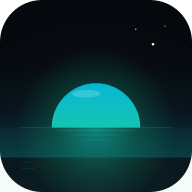
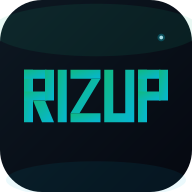
v7.5: タグライン刷新 + RIZUP ワードマークアイコン + 会社ロゴ + マイルストーン重複修正
- タグライン：「書くたびに村が育つ」(v7.0で撤去した村コンセプトの名残) を全箇所削除し「朝と夜、1分で未来が変わる。」に統一（layout.tsx の title/description/OG/Twitter, manifest.json description+shortcut）
- PWA アイコン：logo-r.svg を DAWN(夜明け) から Header と一致するミント→シアングラデ "RIZUP" ワードマークに全面書換。フォント非依存のジオメトリックパスで構築。icons/ 配下 15 サイズ + maskable + apple-touch + favicon 再生成
- 会社ロゴ：logo-company.svg 新規（上昇アーク + RIZUP + タグライン）。dashboard.html のヘッダー h1 上部に挿入
- SW キャッシュ：rizup-v4.3 → rizup-v7.5 にバンプ（iOS の強キャッシュ対策）
- マイルストーン修正：3日/7日/14日/30日モーダルの重複発火を根絶。localStorage に rizup_milestone_highest を持たせ、到達済以上の段階は二度と表示しない（旧 rizup_milestone_{n} キーから自動移行）
- 収益モデル方針確定：Pro ¥480/月・自前ハウス広告・オフ会は50人後オンライン先行・GCal iframe埋め込み・DB同期 Phase2（CLAUDE.md）

diff --git a/app/rizup-app/src/app/layout.tsx b/app/rizup-app/src/app/layout.tsx
@@ -4,8 +4,8 @@ import ToastContainer from "@/components/Toast";
 import ErrorBoundary from "@/components/ErrorBoundary";
 
 export const metadata: Metadata = {
-  title: "Rizup — 書くたびに村が育つ。",
-  description: "朝のひとこと、夜のふりかえり、毎日のこと。書くたびにあなたの村が育っていく。",
+  title: "Rizup — 朝と夜、1分で未来が変わる。",
+  description: "朝のひとこと、夜のふりかえり。1分の記録から、小さな積み重ねで未来を変えていく。",
   applicationName: "Rizup",
   manifest: "/manifest.json",
   appleWebApp: {
@@ -30,8 +30,8 @@ export const metadata: Metadata = {
   },
   formatDetection: { telephone: false, email: false, address: false },
   openGraph: {
-    title: "Rizup — 書くたびに村が育つ。",
-    description: "朝のひとこと、夜のふりかえり、毎日のこと。書くたびにあなたの村が育っていく。",
+    title: "Rizup — 朝と夜、1分で未来が変わる。",
+    description: "朝のひとこと、夜のふりかえり。1分の記録から、小さな積み重ねで未来を変えていく。",
     url: "https://rizup-app.vercel.app",
     siteName: "Rizup",
     locale: "ja_JP",
@@ -40,8 +40,8 @@ export const metadata: Metadata = {
   },
   twitter: {
     card: "summary",
-    title: "Rizup — 書くたびに村が育つ。",
-    description: "朝のひとこと・夜のふりかえり・毎日のこと",
+    title: "Rizup — 朝と夜、1分で未来が変わる。",
+    description: "朝のひとこと・夜のふりかえり・1分の記録で未来を変える",
     images: ["/icons/icon-512.png"],
   },
   robots: { index: true, follow: true },

diff --git a/app/rizup-app/src/app/home/page.tsx b/app/rizup-app/src/app/home/page.tsx
@@ -279,9 +279,10 @@ export default function HomePage() {
     }
   }, []);
 
-  // マイルストーン到達チェック
+  // マイルストーン到達チェック（各マイルストーンは生涯 1 回のみ）
   useEffect(() => {
     if (streak <= 0) return;
+    if (typeof window === "undefined") return;
     const milestones: Record<number, string> = {
       3: "3日続いた！すごい第一歩🌱",
       7: "1週間！本当によくやってるよ✨",
@@ -290,10 +291,20 @@ export default function HomePage() {
     };
     const msg = milestones[streak];
     if (!msg) return;
-    const key = `rizup_milestone_${streak}`;
-    if (typeof window !== "undefined" && !localStorage.getItem(key)) {
-      localStorage.setItem(key, new Date().toISOString());
+    try {
+      // 旧キー互換：rizup_milestone_3 等が残っていたら highest に移行
+      const thresholds = [3, 7, 14, 30];
+      let highest = Number(localStorage.getItem("rizup_milestone_highest") || "0");
+      for (const m of thresholds) {
+        if (localStorage.getItem(`rizup_milestone_${m}`)) highest = Math.max(highest, m);
+      }
+      // 既に同じ or 高い段階を見ていたら何もしない → 「3日目おめでとう」が何度も出る事象を根絶
+      if (streak <= highest) return;
+      localStorage.setItem("rizup_milestone_highest", String(streak));
+      localStorage.setItem(`rizup_milestone_${streak}`, new Date().toISOString());
       setMilestoneModal({ days: streak, message: msg });
+    } catch {
+      // localStorage 不可の環境では演出スキップ（二重表示よりマシ）
     }
   }, [streak]);
 

diff --git a/app/rizup-app/public/dashboard.html b/app/rizup-app/public/dashboard.html
@@ -66,6 +66,10 @@
   header.top .brand h1 span{color:var(--accent)}
   header.top .brand .sub{font-size:14px;color:var(--sub)}
   header.top .brand .mission{margin-top:8px;font-size:14px;color:var(--accent);font-weight:700}
+  header.top .brand .company-logo{display:block;margin:0 0 14px;max-width:260px;height:auto;filter:drop-shadow(0 2px 8px rgba(16,185,129,.25))}
+  @media (max-width:720px){
+    header.top .brand .company-logo{max-width:200px}
+  }
   header.top .clock{text-align:right}
   header.top .clock .date{font-size:14px;color:var(--sub)}
   header.top .clock .time{font-size:22px;font-weight:800;color:var(--text);letter-spacing:.05em;font-variant-numeric:tabular-nums}
@@ -455,7 +459,8 @@
   <!-- ── HEADER ────────────────────────────────────── -->
   <header class="top">
     <div class="brand">
-      <h1>株式会社<span>Rizup</span> — 経営ダッシュボード</h1>
+      <img src="/logo-company.svg" alt="株式会社Rizup" class="company-logo" width="260" height="90" />
+      <h1>経営ダッシュボード</h1>
       <div class="sub">代表：児玉 翔平（Sho）</div>
       <div class="mission">Mission: 自分に縁する人を、全員輝かせる。</div>
     </div>

diff --git a/app/rizup-app/public/sw.js b/app/rizup-app/public/sw.js
@@ -1,11 +1,11 @@
-// Rizup Service Worker v4.3
+// Rizup Service Worker v7.5 (アイコン再生成: RIZUP wordmark)
 // Strategies:
 //  - navigation: network-first with offline fallback（主要ページもキャッシュ）
 //  - static assets (fonts/images/css/js): stale-while-revalidate
 //  - API: network-only (no cache to avoid stale user data)
 //  - push notifications: display + focus existing client on click
 
-const CACHE_VERSION = "rizup-v4.3";
+const CACHE_VERSION = "rizup-v7.5";
 const STATIC_CACHE = `${CACHE_VERSION}-static`;
 const RUNTIME_CACHE = `${CACHE_VERSION}-runtime`;
 const OFFLINE_URL = "/offline.html";

diff --git a/CLAUDE.md b/CLAUDE.md
@@ -1,11 +1,104 @@
-# Rizup HQ — AI引継ぎファイル（v7.3 / タイムライン大掃除）
+# Rizup HQ — AI引継ぎファイル（v7.5 / アイコン刷新 + 会社ロゴ）
 
 > 新しいチャットを開いたらまずこのファイルを読んで即作業開始。確認不要。
-> **最終更新：2026-04-18（v7.3 リリース）**
+> **最終更新：2026-04-18（v7.5 リリース）**
 
 ---
 
-## 🆕 v7.3（2026-04-18）— タイムライン大掃除 + ヘッダー刷新
+## 💰 収益モデル方針（2026-04-18 確定）
+
+| プラン | 価格 | 主な差分 |
+|---|---|---|
+| **Free** | ¥0 | 自前ハウス広告あり（翔平さんSNS誘導バナー） |
+| **Pro** | **¥480/月** | 広告完全非表示・Pro バッジ・週間AIレポート |
+| **Premium**（将来） | 未定 | オフ会無料参加・児玉さんQ&A・限定コミュニティ |
+
+**運用方針**
+- 広告：Google AdSense 等は使わず**自前ハウス広告のみ**（翔平さんの SNS・note 誘導で二次収益を狙う）
+- オフ会：**ユーザー 50 人到達までは開催せず**、その後オンライン先行で試験運用（Zoom）
+- Google Calendar 連携：**今週中に iframe 埋め込み版**で対応（API 版は Phase2 以降）
+- アプリ→ダッシュボード同期（Supabase `dashboard_state` テーブル）：**Phase2 以降**に実装
+
+---
+
+## 🆕 v7.5（2026-04-18）— PWAアイコン刷新 + 会社ロゴ + タグライン刷新
+
+**タグライン刷新（旧「書くたびに村が育つ」→ 新「朝と夜、1分で未来が変わる。」）**
+- v7.0 で村コンセプト撤去済なのに残っていた旧タグラインを全消し
+- `src/app/layout.tsx`: title / description / OG / Twitter カード 5箇所を新タグラインに
+- `public/manifest.json`: description + shortcut 「成長グラフ」説明を更新
+- 新 description: 「朝のひとこと、夜のふりかえり。1分の記録から、小さな積み重ねで未来を変えていく。」
+
+**PWA ホーム画面アイコン（`public/logo-r.svg` 全面書換）**
+- 旧: v7.4 の DAWN(夜明けの太陽) → 新: **"RIZUP" ワードマーク**（Header.tsx と完全一致のミント→シアングラデ `#10b981 → #06b6d4`）
+- ジオメトリック block-letter パスで構築（フォント依存ゼロ、小サイズでも崩れない）
+- iOS 風 rounded corners (rx=112)、ダーク背景 + 上下アクセントグロー + 右上スパークドット
+- `scripts/gen-icons.mjs` 実行済 → `public/icons/` 配下 15 サイズ + maskable 2 + apple-touch + favicon 再生成
+- ルート `public/icon-192.png` / `icon-512.png` も同期
+
+**ダッシュボード会社ロゴ（`public/logo-company.svg` 新規）**
+- 横長 520×180、上昇アーク + "RIZUP" ワードマーク + アクセントライン + タグライン
+- `public/dashboard.html`：`<h1>株式会社Rizup — 経営ダッシュボード</h1>` の上に `<img src="/logo-company.svg">` を追加、h1 を「経営ダッシュボード」のみに簡素化
+- drop-shadow でミント系光彩、モバイル 720px 以下で幅 200px に自動縮小
+
+**Service Worker**
+- `public/sw.js`：CACHE_VERSION `rizup-v4.3` → **`rizup-v7.5`**（旧キャッシュ破棄 → 新アイコン即反映）
+
+## ✅ v7.4.1（2026-04-18・commit 3b88b8e）
+- 感謝バナーを 1日1回のみ表示に制限
+
+## ✅ v7.4（2026-04-18・commit e4c83f9）
+- **DAWN アイコン**（夜明けの太陽・v7.5 で "RIZUP" ワードマークに置換予定）
+- 3行日記（did_well / grateful / tomorrow_word）+ posts マイグレ
+- 起床バッジ + streak 拡張
+
+## ✅ v7.3.1（2026-04-18・commit 2c631bc）
+- 朝活 CSS 修正 + PWA アイコン刷新（ダーク基調、後に v7.4 で DAWN 化 → v7.5 で ワードマーク化）
+
+---
+
+## 📱 iPhone ホーム画面アイコンが古いままの対処
+
+iOS はホーム画面アイコンを強くキャッシュするため、以下の手順が必須:
+
+1. **デプロイ確認**: 変更を GitHub へ push → Vercel 自動デプロイ完了を待つ
+2. **iPhone 側**:
+   - ホーム画面の旧 Rizup アイコンを長押し → 「Appを削除」
+   - Safari を開く → Safari の「履歴とWebサイトデータを消去」（設定 > Safari）
+   - Safari で `https://rizup-app.vercel.app` を開く
+   - 共有ボタン → 「ホーム画面に追加」→ 新しい RIZUP ワードマークが表示される
+
+---
+
+## ✅ v7.4（2026-04-18）— 朝活データ + 3行日記
+
+**DB マイグレ（要実行）**
+- `app/rizup-app/supabase/migrations/20260418_journal_v74.sql`（冪等・IF NOT EXISTS）
+  - posts に `wake_time` / `bedtime`（HH:MM 文字列）
+  - posts に `did_well` / `grateful` / `tomorrow_word`（3行日記）
+  - `posts(type, created_at DESC)` インデックス追加
+- **状態：翔平さんが Supabase SQL Editor で実行中**
+
+**コード実装（完了済み）**
+- `src/app/journal/page.tsx`：朝モードに起床/就寝時刻 input、夜モードに 3行日記（できたこと / 感謝 / 明日の一言）を追加。localStorage で入力保持、送信時 payload に `wake_time` / `bedtime` / `did_well` / `grateful` / `tomorrow_word` を含める
+- `src/components/PostCard.tsx`：朝活投稿で「⏰ HH:MM 起床 / 🌙 HH:MM」を表示
+- `src/app/home/page.tsx`：Post 型に v7.4 カラム追加
+
+## 🚀 ローンチ前チェックリスト（v7.4 更新）
+
+- [ ] **DB v7.4**: `supabase/migrations/20260418_journal_v74.sql` を Supabase SQL Editor で実行（**実施中**）
+- [x] **DB v7.3 以前**: `src/scripts/run-migration.md` の SQL 実行済み
+- [x] **テストデータ**: `supabase/README_SEED.md` 手順で seed-posts.sql 投入済
+- [ ] **Stripe**: `.env.local.example` 参照して Vercel に 4 変数登録（**準備中**）
+- [ ] **Stripe Dashboard**: Webhook `/api/stripe/webhook` 登録 + signing secret 反映（**準備中**）
+- [x] **PWA実機**: iPhone Safari「ホーム画面に追加」→ 追加できるようになった ✅
+- [ ] **Threads**: @shohei_rizup 初日投稿
+- [ ] **note**: 下書き公開
+- [ ] **Pro購入テスト**: /pricing → Checkout → Webhook で plan=pro に更新されるか
+
+---
+
+## ✅ v7.3（2026-04-18）— タイムライン大掃除 + ヘッダー刷新
 
 **ロゴ（グラデーションタイポ）**
 - `Header.tsx`: SVG Image → CSS グラデの "RIZUP" 文字に変更
@@ -30,17 +123,6 @@
 **テストデータ**
 - `app/rizup-app/supabase/seed-posts.sql` 新規（8件・朝4/夜4）
 - `app/rizup-app/supabase/README_SEED.md`: user_id 差し替え手順と投入手順
-
-## 🚀 ローンチ前チェックリスト（更新）
-
-- [x] **DB**: `src/scripts/run-migration.md` の SQL を Supabase SQL Editor で実行
-- [x] **テストデータ**: `supabase/README_SEED.md` 手順で seed-posts.sql 投入（タイムラインの見栄え確認用）
-- [x] **Stripe**: `.env.local.example` 参照して Vercel に 4 変数を登録
-- [x] **Stripe Dashboard**: Webhook エンドポイント `/api/stripe/webhook` 登録 + signing secret 環境変数反映
-- [ ] **Threads**: @shohei_rizup 初日投稿
-- [ ] **note**: 下書き公開
-- [ ] **PWA実機**: iPhone Safari「ホーム画面に追加」→ 新しい RIZUP ロゴ表示 / ステータスバー被りなし確認
-- [ ] **Pro購入テスト**: /pricing → Checkout → Webhook で plan=pro に更新されるか
 
 ---
 
